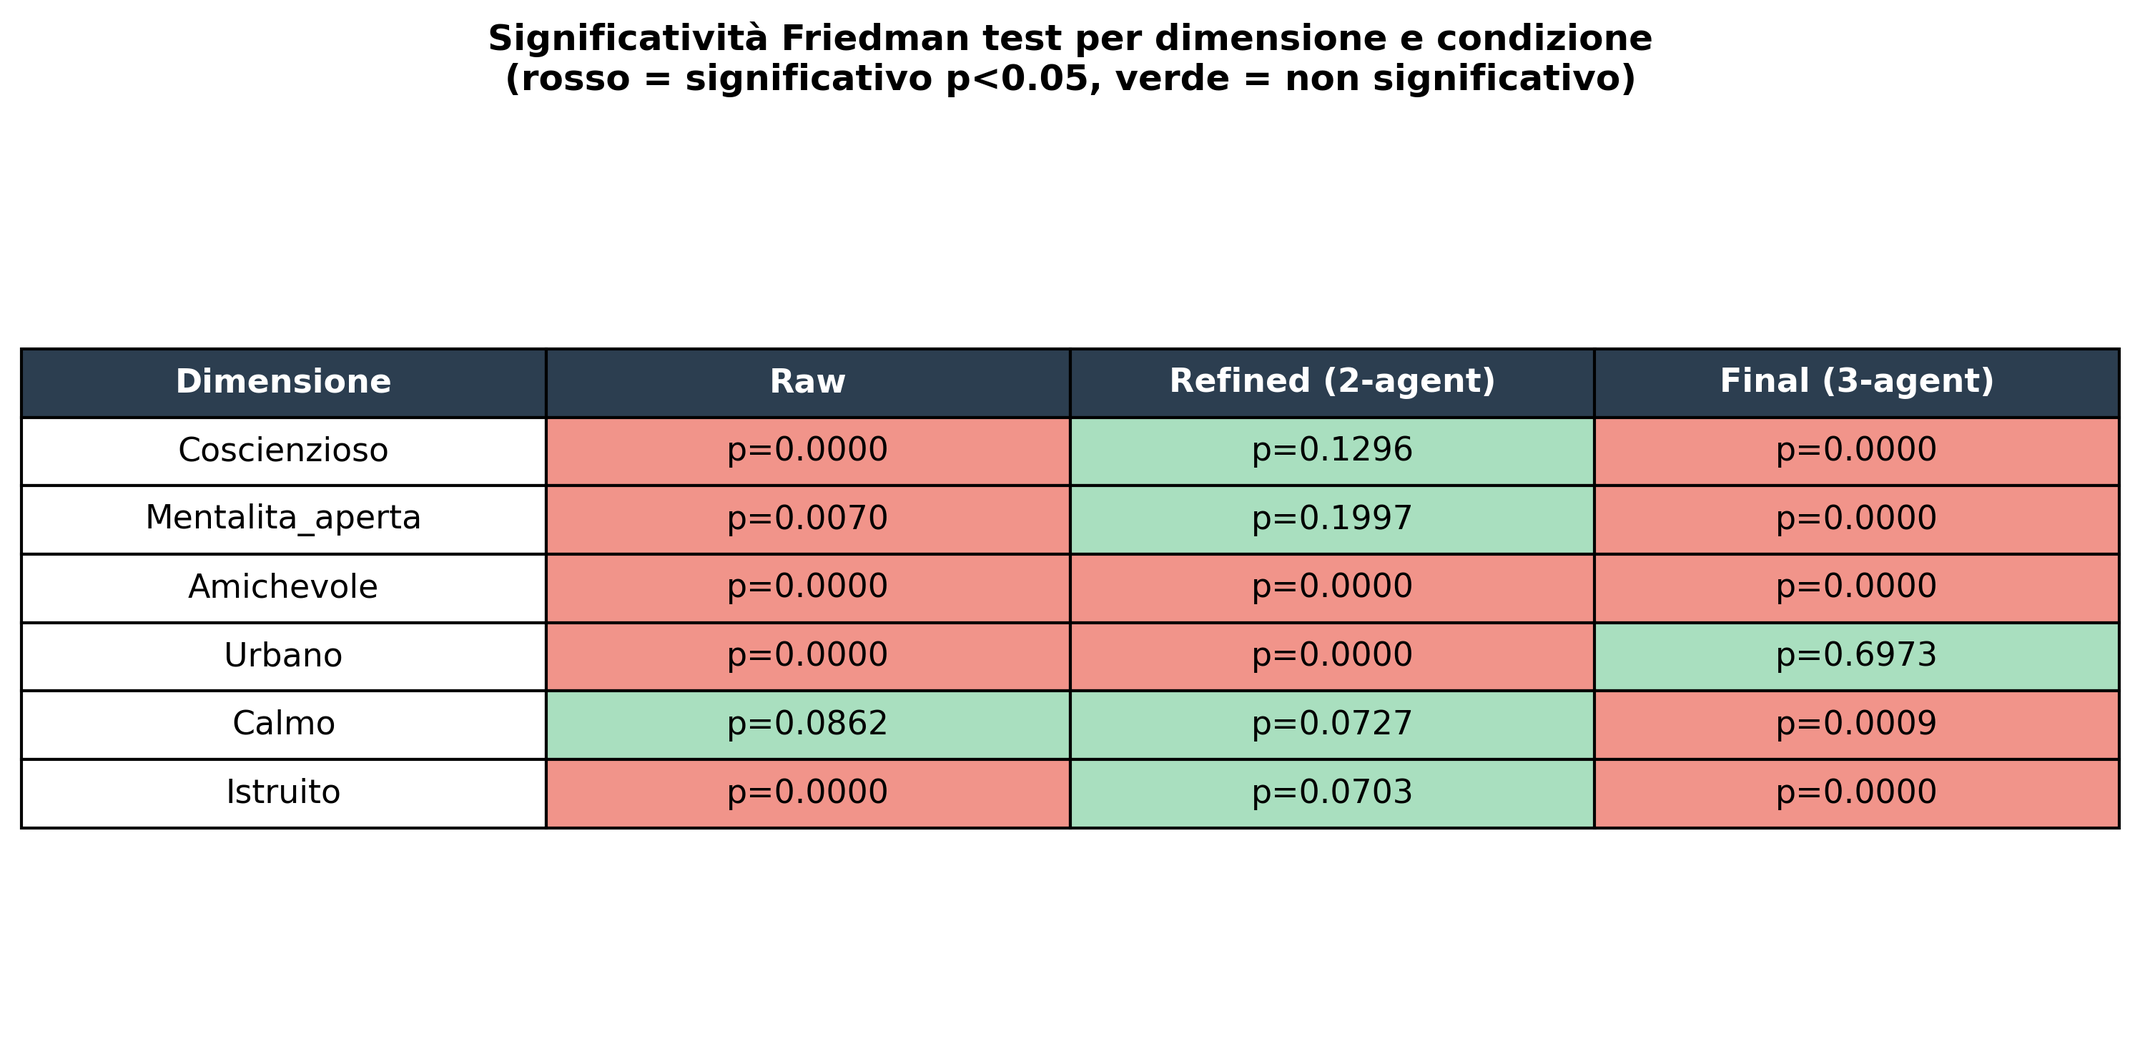
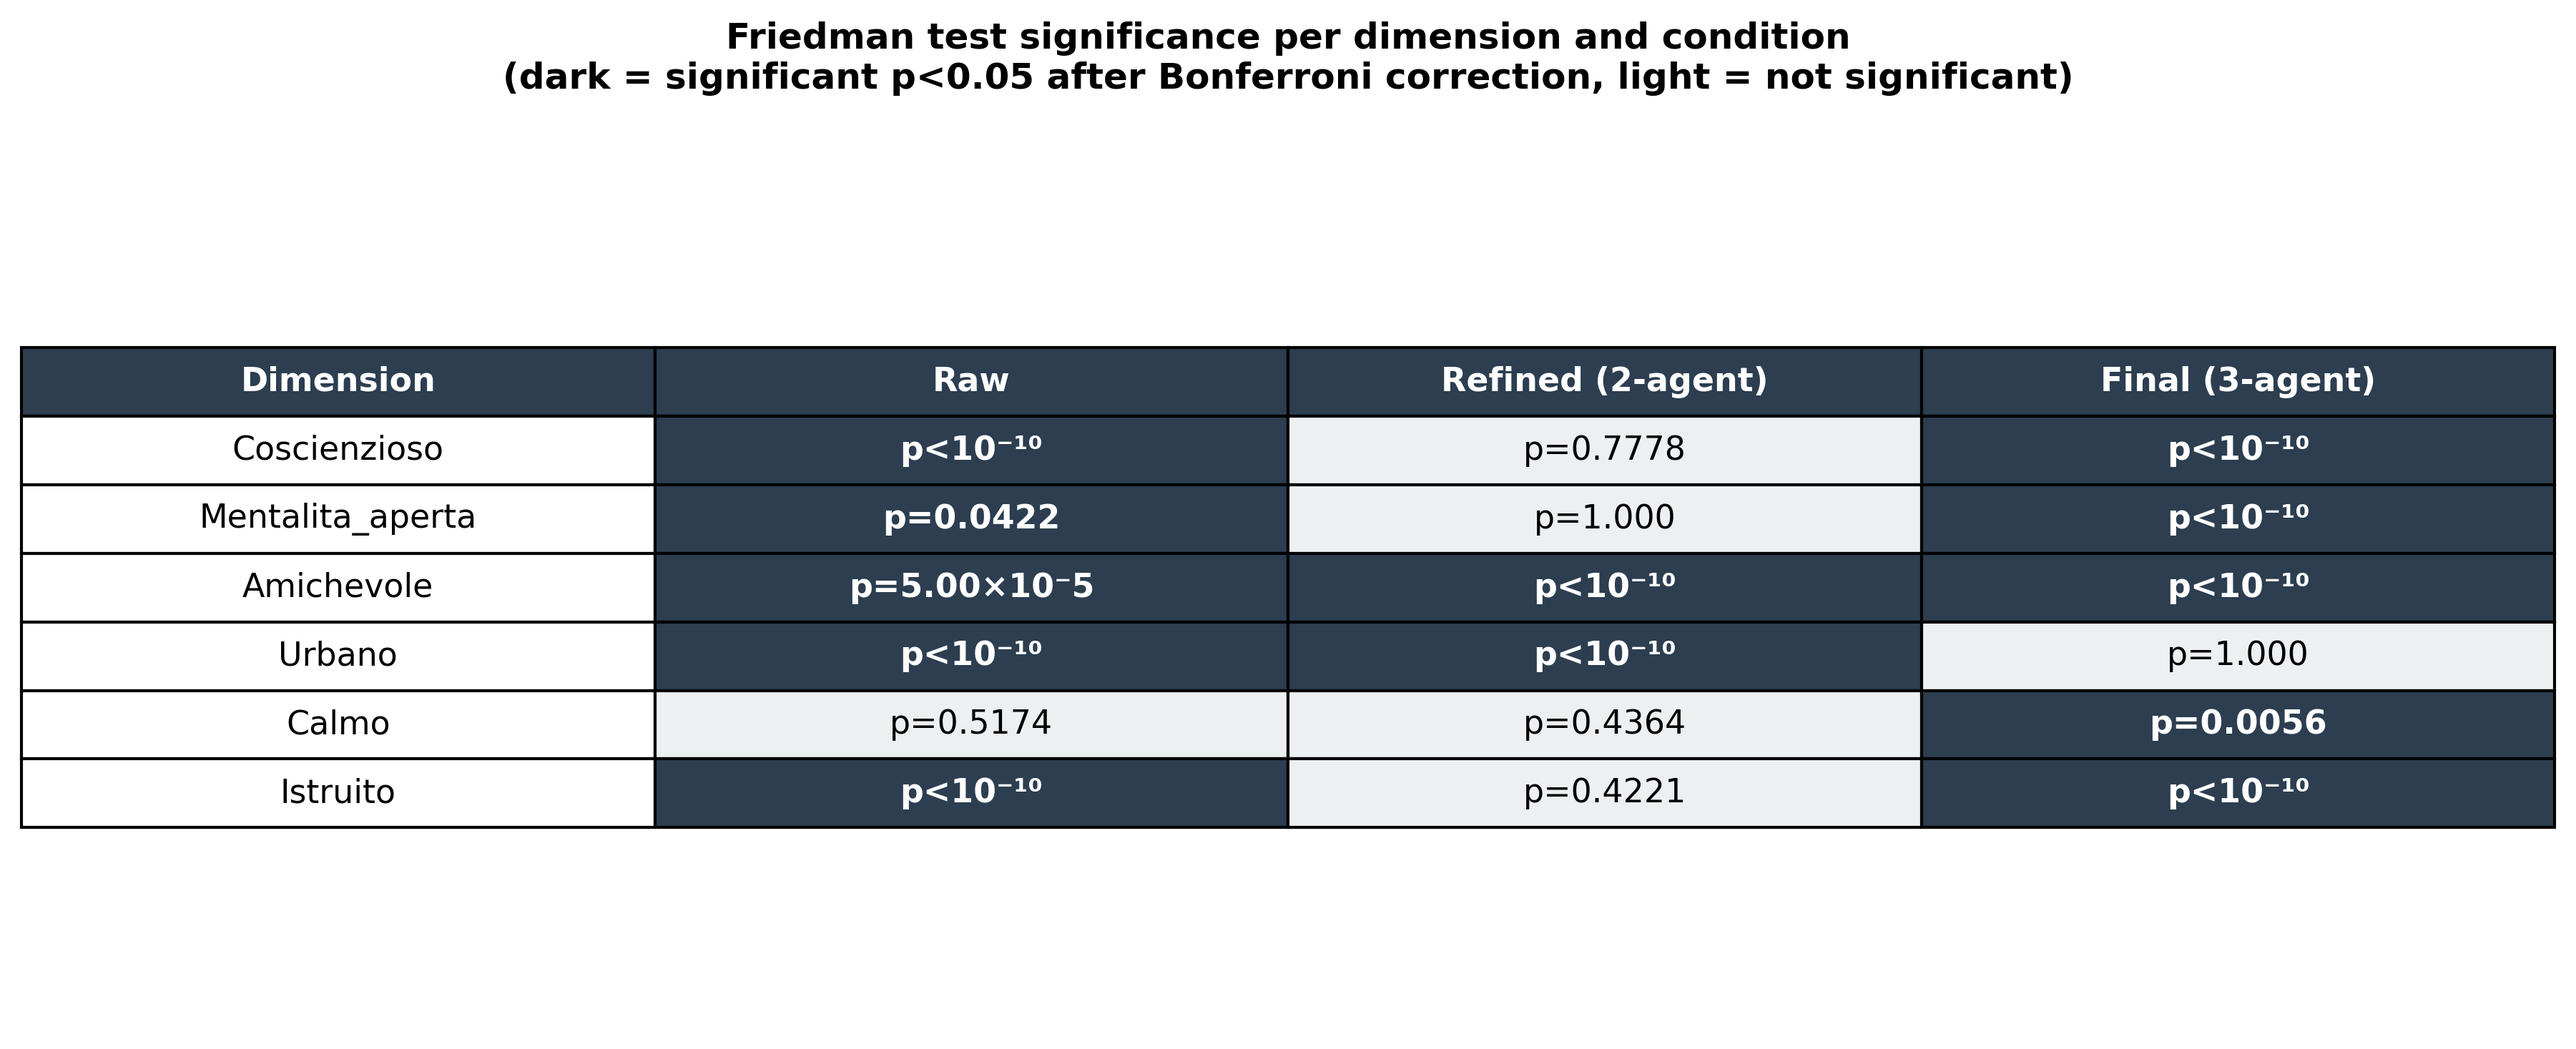
commit

diff --git a/rq3/analysis_rq3_plots.py b/rq3/analysis_rq3_plots.py
@@ -1,7 +1,6 @@
 import pandas as pd
 import numpy as np
 import matplotlib.pyplot as plt
-import matplotlib.colors as mcolors
 from pathlib import Path
 
 # =========================
@@ -31,6 +30,23 @@ COLOURS = {
     "Parmigiano": "#e67e22",
     "Siciliano": "#3498db"
 }
+
+# =========================
+# HELPER — formato p-value con esponente
+# =========================
+
+def format_pvalue(p):
+    if p >= 1.0:
+        return "p=1.000"
+    if p == 0.0 or p < 1e-10:
+        return "p<10⁻¹⁰"
+    if p >= 0.001:
+        return f"p={p:.4f}"
+    else:
+        exp = int(np.floor(np.log10(p)))
+        base = p / (10 ** exp)
+        return f"p={base:.2f}×10⁻{abs(exp)}"
+
 
 # =========================
 # OPZIONE B — BAR CHART PER DIMENSIONE SIGNIFICATIVA
@@ -82,13 +98,15 @@ def plot_barchart(df_data, df_results, suffix, condition_label, filename):
 # =========================
 
 def plot_significance_table(df_results_2, df_results_3, filename):
-    conditions = ["Raw", "Refined", "Final"]
-    fig, ax = plt.subplots(figsize=(10, 5))
+    fig, ax = plt.subplots(figsize=(12, 5))
     ax.axis("off")
 
-    # costruisci tabella
     table_data = []
     cell_colors = []
+
+    # colori bianco/nero friendly
+    COLOR_SIG = "#2c3e50"      # blu scuro per significativo
+    COLOR_NOTSIG = "#ecf0f1"   # grigio chiaro per non significativo
 
     for dim in DIMENSIONS:
         row = [dim]
@@ -102,15 +120,15 @@ def plot_significance_table(df_results_2, df_results_3, filename):
                 row.append("—")
                 colors.append("#f0f0f0")
             else:
-                p = sub["p_value"].values[0]
+                p = sub["p_value_corrected"].values[0]
                 sig = sub["significant"].values[0]
-                row.append(f"p={p:.4f}")
-                colors.append("#f1948a" if sig else "#a9dfbf")
+                row.append(format_pvalue(p))
+                colors.append(COLOR_SIG if sig else COLOR_NOTSIG)
 
         table_data.append(row)
         cell_colors.append(colors)
 
-    col_labels = ["Dimensione", "Raw", "Refined (2-agent)", "Final (3-agent)"]
+    col_labels = ["Dimension", "Raw", "Refined (2-agent)", "Final (3-agent)"]
     table = ax.table(
         cellText=table_data,
         colLabels=col_labels,
@@ -123,14 +141,22 @@ def plot_significance_table(df_results_2, df_results_3, filename):
     table.set_fontsize(11)
     table.scale(1.2, 1.8)
 
-    # intestazioni in grassetto
+    # testo bianco per celle scure
+    for i, row_data in enumerate(table_data):
+        for j, val in enumerate(row_data):
+            if cell_colors[i][j] == COLOR_SIG:
+                table[i + 1, j].set_text_props(color="white", fontweight="bold")
+
+    # intestazioni
     for j in range(len(col_labels)):
         table[0, j].set_facecolor("#2c3e50")
         table[0, j].set_text_props(color="white", fontweight="bold")
 
-    ax.set_title("Significatività Friedman test per dimensione e condizione\n"
-                 "(rosso = significativo p<0.05, verde = non significativo)",
-                 fontweight="bold", fontsize=12, pad=20)
+    ax.set_title(
+        "Friedman test significance per dimension and condition\n"
+        "(dark = significant p<0.05 after Bonferroni correction, light = not significant)",
+        fontweight="bold", fontsize=12, pad=20
+    )
 
     plt.tight_layout()
     plt.savefig(filename, dpi=300, bbox_inches="tight")

diff --git a/rq3/analysis_rq3_stats.py b/rq3/analysis_rq3_stats.py
@@ -23,6 +23,8 @@ DIMENSIONS = [
 
 LANGUAGES = ["Napoletano", "Italiano (Auto)", "Parmigiano", "Siciliano"]
 
+N_COMPARISONS = len(DIMENSIONS)  # 6 — per correzione Bonferroni
+
 # =========================
 # FRIEDMAN TEST
 # =========================
@@ -33,13 +35,15 @@ def run_friedman(df, suffixes, label):
 
     for suffix in suffixes:
         print(f"\n-- {suffix} --")
+        
+        # prima passata: calcola tutti i p-value grezzi
+        raw_results = []
         for dim in DIMENSIONS:
             col = f"{dim}_{suffix}"
             if col not in df.columns:
                 print(f"  Colonna {col} non trovata")
                 continue
 
-            # pivot: righe = frasi (Original_Row), colonne = lingue
             pivot = df.pivot_table(
                 index="Original_Row",
                 columns="Language",
@@ -56,19 +60,29 @@ def run_friedman(df, suffixes, label):
             groups = [pivot[lang].values for lang in LANGUAGES]
             stat, p = friedmanchisquare(*groups)
 
-            results.append({
+            raw_results.append({
                 "condizione": suffix,
                 "dimensione": dim,
                 "statistica": round(stat, 3),
-                "p_value": round(p, 5),
-                "significant": p < 0.05,
+                "p_value_raw": p,
                 "n_frasi": len(pivot),
                 **{f"mean_{lang.replace(' ', '_').replace('(', '').replace(')', '')}":
                    round(pivot[lang].mean(), 3) for lang in LANGUAGES}
             })
 
-            sig = "✓" if p < 0.05 else ""
-            print(f"  {dim}: stat={stat:.3f}, p={p:.5f} {sig}")
+        # seconda passata: applica correzione Bonferroni
+        for r in raw_results:
+            p_corrected = min(r["p_value_raw"] * N_COMPARISONS, 1.0)
+            r["p_value_corrected"] = round(p_corrected, 5)
+            r["p_value_raw"] = round(r["p_value_raw"], 5)
+            r["significant"] = p_corrected < 0.05
+
+            sig = "✓" if r["significant"] else ""
+            print(f"  {r['dimensione']}: stat={r['statistica']:.3f}, "
+                  f"p_raw={r['p_value_raw']:.5f}, "
+                  f"p_corrected={r['p_value_corrected']:.5f} {sig}")
+
+            results.append(r)
 
     return pd.DataFrame(results)
 
